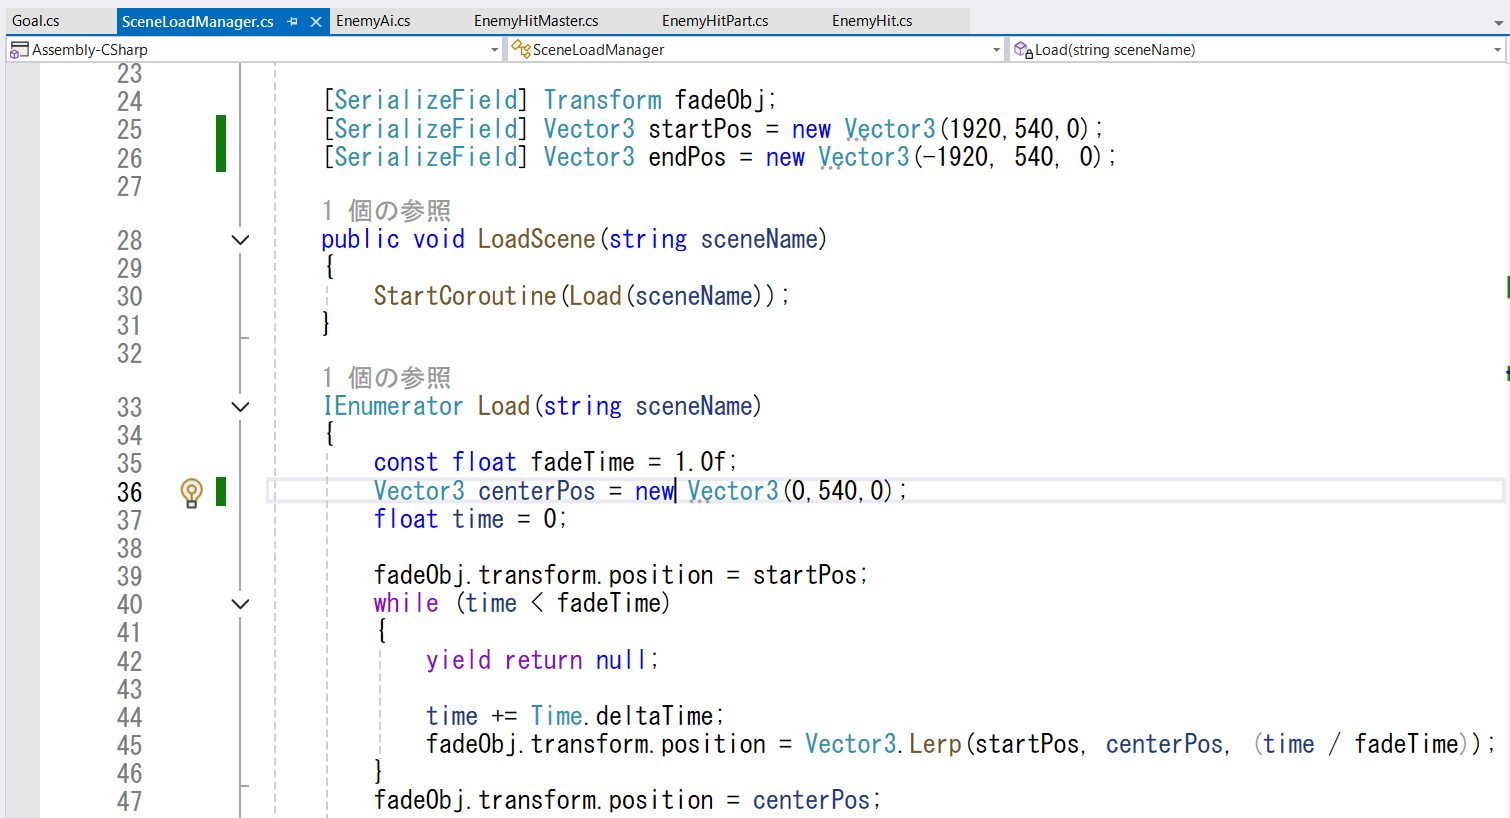
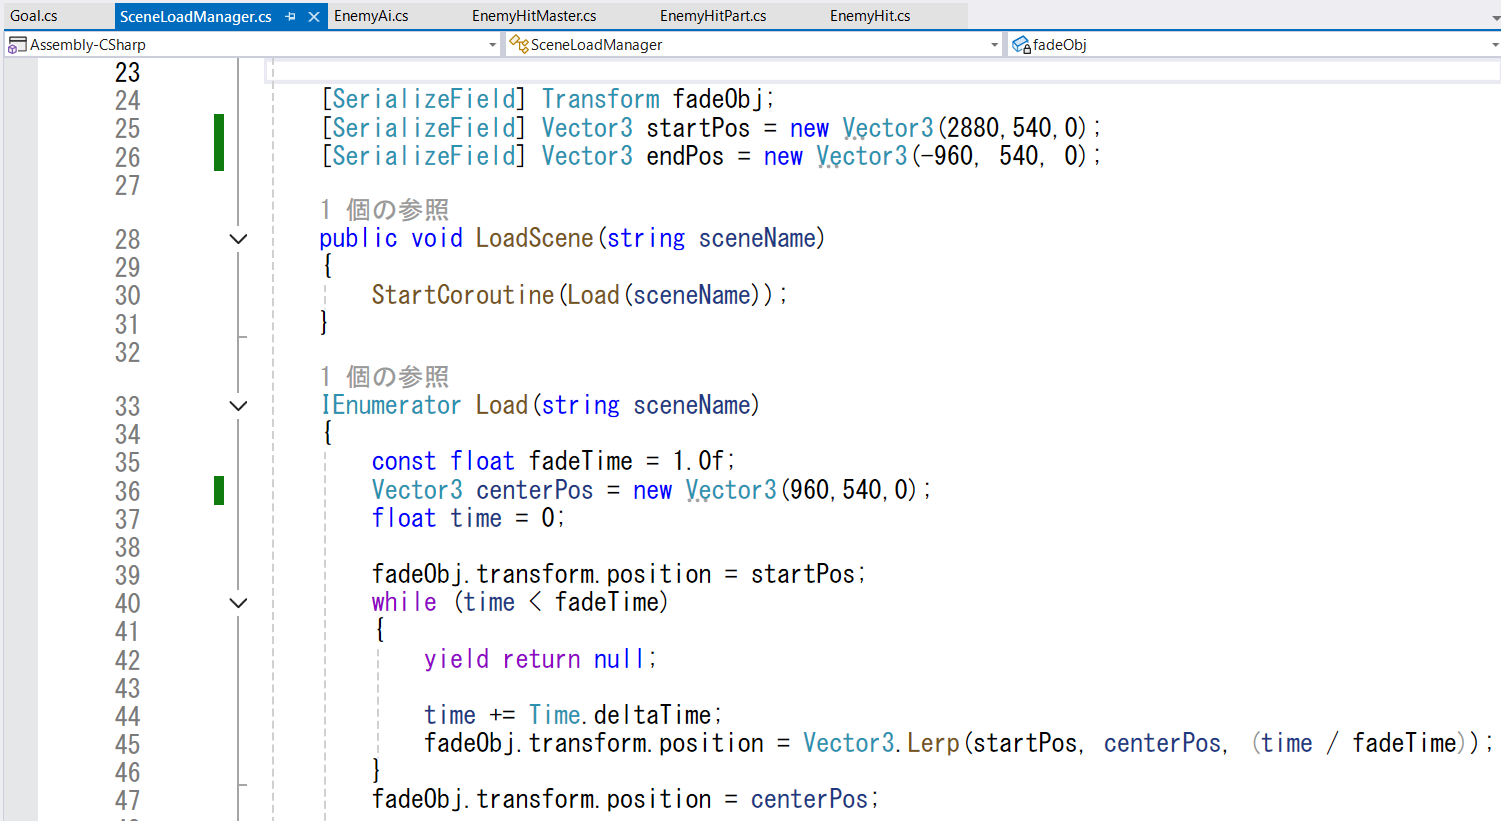
画像修正

diff --git a/HighSchool_2025/3DTPS4.md b/HighSchool_2025/3DTPS4.md
@@ -36,15 +36,16 @@ EnemyHitMaster.csとEnemyAi.csを変更します。<br>
 シーンの切り替えを実装します。<br>
 ゴールとシーンをフェードする処理を作成してください。<br>
 SceneLoadManager.cs<br>
-<img src="Image/3DTPS/SceneLoadManager0.png"><br>
-<img src="Image/3DTPS/SceneLoadManager1.png"><br>
-<img src="Image/3DTPS/SceneLoadManager2.png"><br>
+<img src="Image/3DTPS/SceneManager0.png"><br>
+<img src="Image/3DTPS/SceneManager1.png"><br>
+<img src="Image/3DTPS/SceneManager2.png"><br>
 Goal.cs<br>
 <img src="Image/3DTPS/Goal.png"><br>
 
 Unity作業<br>
 Canvasを新しく作成して、SceneLoadMangaerをつける<br>
 Canvasの中にImageを作成して、サイズを1920：1080にする<br>
+CanvasのSortOrderを32767にする<br>
 Imageの位置を1920：0にする<br>
 Tanksのプレハブの中にあるTemporaryInvincibilityをシーンに設置する<br>
 TemporaryInvincibilityのPowerUpを削除する<br>
